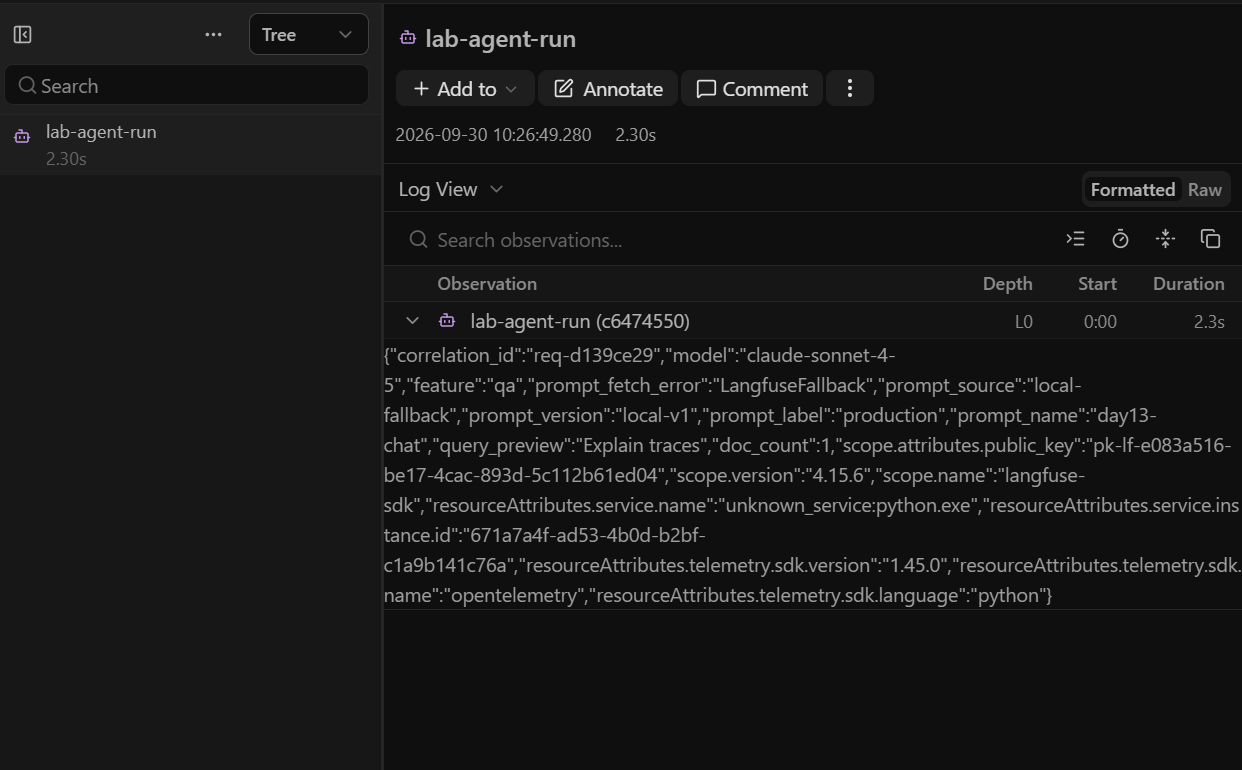
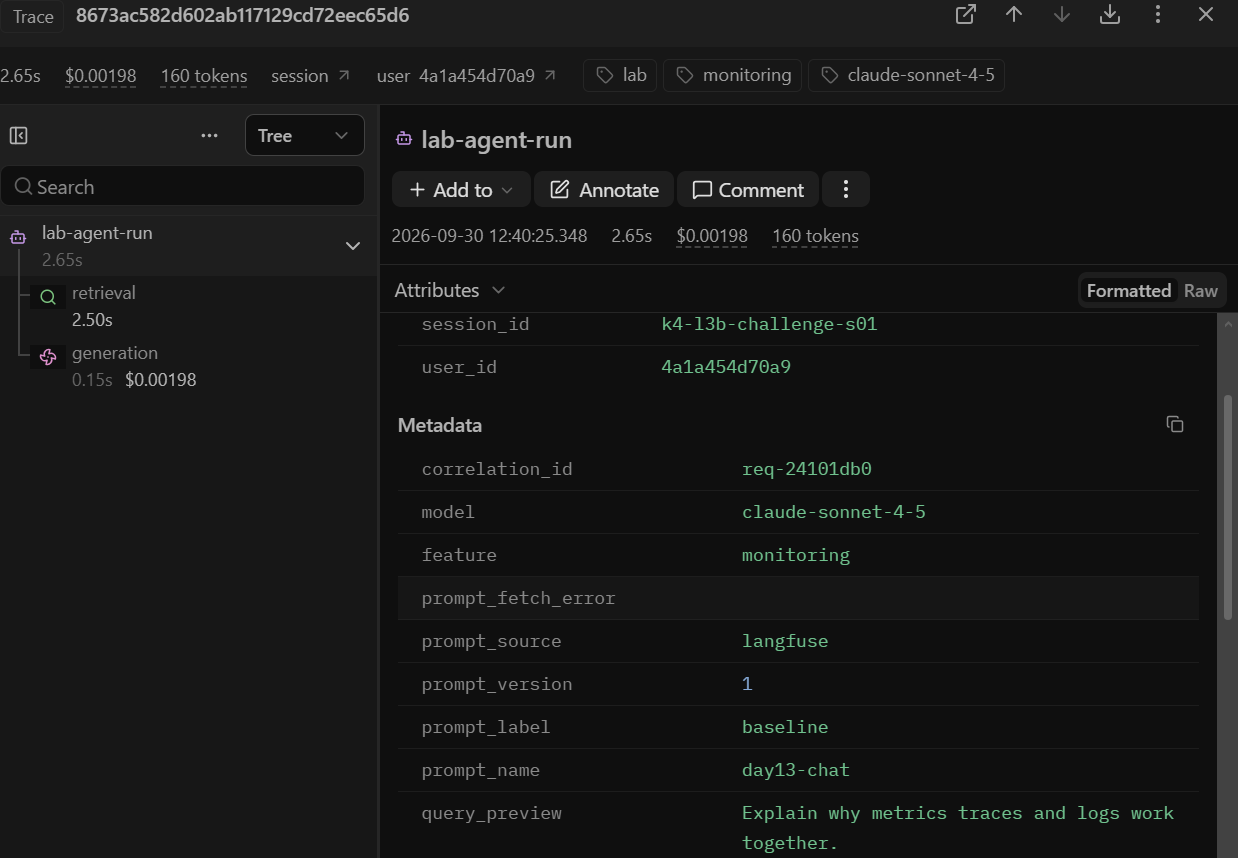
Final b4 SHA

diff --git a/submission/REPORT.md b/submission/REPORT.md
@@ -8,7 +8,7 @@
 - **MSSV:** 2A202602756
 - **Lớp:** K4-L3B
 - **Repository URL:** https://github.com/Anreak/K4-L3-DAY13-NguyenQuangHuu-2A202602756-Monitoring-LLMOps
-- **Commit SHA cuối:**
+- **Commit SHA cuối:** Chưa tạo; điền SHA của commit cuối sau khi cập nhật report và evidence.
 - **Challenge ID:** `day13-k4-l3b-monitoring-llmops-v1`
 - **Tên project Langfuse cá nhân:** `day13-k4-l3b-2A202602756` (xác nhận qua API project của credentials đang cấu hình).
 
@@ -18,42 +18,33 @@
 
 | Evidence | Đường dẫn |
 |---|---|
-| Pytest cuối | `evidence/01-pytest.txt` |
-| Log validator | `evidence/02-log-validator.txt` |
-| Dashboard validator | `evidence/03-dashboard-validator.txt` |
-| Structured log | `evidence/04-structured-log.txt` |
-| PII redaction | `evidence/05-pii-redaction-runtime.txt` |
-| Baseline load | `evidence/06-baseline-load.txt` |
-| Langfuse trace list/metadata (text) | `evidence/06-langfuse-traces.txt` |
-| Candidate load | `evidence/07-candidate-load.txt` |
-| Production v2 load | `evidence/08-production-v2-load.txt` |
-| Candidate/production v2 Langfuse trace IDs | `evidence/09-langfuse-version-traces.txt` |
-| Production v1 rollback workload (DNS fallback; not a managed trace) | `evidence/10-production-v1-rollback-load.txt` |
-| Production v1 trace after rollback | `evidence/10-production-v1-rollback-trace.txt` |
-| Trace list | `evidence/06-trace-list.png` |
+| Pytest cuối | `evidence/01-pytest.png` |
+| Log validator | `evidence/02-log-validator.png` |
+| Dashboard validator | `evidence/03-dashboard-validator.png` |
+| Structured log | `evidence/04-structured-log.png` |
+| PII redaction | `evidence/05-pii-redaction.png` |
+| Langfuse trace list | `evidence/06-trace-list.png` |
 | Trace waterfall | `evidence/07-trace-waterfall.png` |
-| Trace metadata | `evidence/08-trace-metadata.png` |
+| Trace metadata | `evidence/08a.png` |
+| Generation model/token/cost | `evidence/08b.png` |
 | Prompt versions | `evidence/09-prompt-versions.png` |
-| Prompt rollback sau promote | `evidence/10a-prompt-production-v2.png` |
-| Prompt rollback sau khi quay về v1 | `evidence/10b-prompt-production-v1.png` |
+| Production v2 sau promote | `evidence/09-prompt-versions.png` (ảnh cho thấy v2 có label `production`) |
+| Production v1 sau rollback | `evidence/10b.png` |
 | Dashboard runtime | `evidence/11-dashboard-overview.png` |
-| Incident metric | `evidence/12-incident-metric.png` |
-| Incident metric snapshot (JSON) | `evidence/12-incident-metric.json` |
-| Incident workload | `evidence/13-incident-load.txt` |
-| Incident log (text, scrubbed fields only) | `evidence/13-incident-log.txt` |
-| Incident log screenshot | `evidence/13-incident-log.png` |
-| Incident trace | `evidence/14-incident-trace.png` |
+| Incident metric | `evidence/12-incident-metric.png` (ảnh hiện tại không chứa thời điểm challenge; cần thay bằng ảnh đúng) |
+| Incident log | `evidence/13-incident-log.png` |
+| Incident trace | Chưa đạt: `evidence/14-incident-trace.png` là request khác correlation ID; cần thay bằng trace khớp ảnh 13 |
 
 ## 3. Kết quả kỹ thuật
 
 | Nội dung | Baseline | Kết quả cuối | Nhận xét |
 |---|---|---|---|
-| `validate_logs.py` | Chưa ghi baseline | 100/100; 273 records, 119 correlation IDs | 0 trường thiếu, 0 context enrichment thiếu, 0 leak PII |
-| `validate_dashboard.py` | Chưa ghi baseline | 6/6 panel | Contract hợp lệ; dashboard runtime cần ảnh riêng |
-| `pytest` | Chưa ghi baseline | 26 passed | Chạy trên working tree hiện tại |
-| Số traces hợp lệ | Chưa ghi baseline | Tối thiểu 36 root traces / 108 observations | 15 baseline/challenge + 10 candidate v2 + 10 production v2 + 1 production v1 sau rollback |
+| `validate_logs.py` | Chưa ghi baseline | 100/100; 293 records, 129 correlation IDs | 0 trường thiếu, 0 context enrichment thiếu, 0 leak PII |
+| `validate_dashboard.py` | Chưa ghi baseline | 6/6 panel | Contract hợp lệ; runtime ở ảnh 11; ảnh metric incident 12 cần chụp lại đúng time range |
+| `pytest` | Chưa ghi baseline | 26 passed | Ảnh terminal: `evidence/01-pytest.png` |
+| Số traces hợp lệ | Chưa ghi baseline | Tối thiểu 36 root traces / 108 observations đã xác minh trước đó | Ảnh trace list hiện hiển thị 104 root observations trong khoảng thời gian đang chọn |
 | Số PII leak | Chưa ghi baseline | 0 theo log validator | Smoke test local cũng xác nhận mẫu email/điện thoại/thẻ đã scrub |
-| Latency P95 / TTFT P95 | Chưa ghi baseline | Snapshot local 15 request: P95 5,650 ms; TTFT P95 51 ms | P95 tổng bị ảnh hưởng bởi lần fetch prompt đầu tiên khi cache lạnh; challenge riêng: 5/5 request 2,653–2,656 ms |
+| Latency P95 / TTFT P95 | Chưa ghi baseline riêng | Dashboard overview: P95 1,451 ms, TTFT P95 51 ms; challenge: 5/5 request 2,653–2,656 ms | Challenge median 2,654 ms vượt ngưỡng 2,000 ms; ảnh dashboard 12 hiện có chưa nằm trong challenge time range |
 | Retrieval success rate | Chưa ghi baseline | 100% (5/5 challenge request) | Cả năm log `response_sent` đều có `tool_success=true`; retrieval bị chậm nhưng không lỗi |
 
 ## 4. Logging và PII
@@ -61,22 +52,22 @@
 - **Cách tạo/nhận và truyền correlation ID:** Middleware nhận `x-request-id` đúng định dạng hoặc sinh `req-<8-hex>`, rồi trả ID ở header và response body. Smoke test local dùng `req-9b6c9451`; ID nằm trong cả hai log event. Langfuse root metadata ghi cùng correlation ID.
 - **Các metadata được ghi vào structured log:** `user_id_hash`, `session_id` đã scrub, `feature` đã scrub, `model`, `env`, `correlation_id`; event kết thúc request còn có latency, TTFT, token, cost, quality và retrieval status.
 - **Cách bảo đảm PII được scrub trước khi ghi:** `scrub_event` chạy trước file writer/JSON renderer và đệ quy qua chuỗi trong dict/list/tuple. Trace metadata cũng scrub `session_id` và `feature`; raw user ID chỉ lưu dạng hash.
-- **Cách kiểm chứng kết quả:** 10 baseline request trả HTTP 200; các trường nhạy cảm trong sample được scrub trong structured log. Sau đó kiểm tra trên Langfuse bằng correlation ID và metadata, không lấy nội dung input/output. Output: `evidence/04-structured-log.txt`, `evidence/05-pii-redaction-runtime.txt`, `evidence/06-baseline-load.txt`.
+- **Cách kiểm chứng kết quả:** Structured log có `correlation_id`, model, latency và trạng thái retrieval; ảnh PII cho thấy email/điện thoại/thẻ mẫu đã được thay bằng token `[REDACTED_...]`. Xem `evidence/04-structured-log.png` và `evidence/05-pii-redaction.png`.
 
 ## 5. Tracing và prompt versioning
 
 - **Cách xác nhận traces do chính tôi tạo trong project cá nhân:** Langfuse API trả 45 observations tương ứng 15 root traces trong lượt baseline/challenge; 60 observations nữa tương ứng 20 root traces candidate/production v2; thêm một trace production v1 sau rollback. Metadata chứa các correlation ID khớp log workload.
-- **Cấu trúc root/retrieval/generation observations:** Đã xác minh root `lab-agent-run` có child `retrieval` kiểu `RETRIEVER` và `generation` kiểu `GENERATION`. Capture input/output bị tắt; generation có model, token usage và cost.
-- **Cách nối trace với log:** Metadata root có `correlation_id`, trùng với `correlation_id` trong `request_received`/`response_sent`. Trace challenge mẫu: `8673ac582d602ab117129cd72eec65d6`; correlation ID `req-24101db0`.
+- **Cấu trúc root/retrieval/generation observations:** Trace `89b119758e2f145c28af4b4e324ff876` có root `lab-agent-run` và hai child `retrieval`, `generation`. Ảnh `evidence/07-trace-waterfall.png` cho thấy cây; ảnh `evidence/08b.png` cho thấy generation dùng model `claude-sonnet-4-5`, tổng 196 tokens và cost `$0.002604`.
+- **Cách nối trace với log:** Ảnh metadata `evidence/08a.png` cho thấy trace `89b119758e2f145c28af4b4e324ff876` có `correlation_id=req-035d7711`, prompt `day13-chat`, label `production`, version 1 và `prompt_source=langfuse`.
 - **Prompt name:** `day13-chat`; API xác nhận trace dùng prompt managed (`prompt_source=langfuse`).
 - **Version/label baseline:** Version 1 / `baseline`; đã xác minh trên trace Langfuse.
 - **Version/label candidate:** Version 2 / `candidate`; đã tạo 10 request và Langfuse trả 10 root traces với `prompt_source=langfuse`.
-- **Trace ID của mỗi version:** Baseline v1: `8673ac582d602ab117129cd72eec65d6`, correlation `req-24101db0`; candidate v2: `3429cd635c5d3eca348722f8a8c9ade7`, correlation `req-a80d7722`; production v2: `f56ab203e00fceff172000d47a3d06cf`, correlation `req-ff29a25e`; production v1 sau rollback: `381a0be50c4f2d22b3bd10f71bea2e34`, correlation `req-4fcce137`. Danh sách v2 ở `evidence/09-langfuse-version-traces.txt`.
-- **Cách promote và rollback `production`:** Đã chuyển `production` sang version 2, chạy 10 request, rồi rollback về version 1. Langfuse API xác nhận sau rollback: baseline=1, production=1, candidate=2. Trace sau rollback mới xác nhận `production`, version 1, `prompt_source=langfuse`; xem `evidence/10-production-v1-rollback-trace.txt`. Ảnh 10a/10b còn cần chụp trong UI.
+- **Trace ID của mỗi version:** Baseline v1: `8673ac582d602ab117129cd72eec65d6`, correlation `req-24101db0`; candidate v2: `3429cd635c5d3eca348722f8a8c9ade7`, correlation `req-a80d7722`; production v2: `f56ab203e00fceff172000d47a3d06cf`, correlation `req-ff29a25e`; production v1 sau rollback: `381a0be50c4f2d22b3bd10f71bea2e34`, correlation `req-4fcce137`. Các ID đã được xác minh trước đó qua Langfuse API.
+- **Cách promote và rollback `production`:** Đã chuyển `production` sang version 2, sau đó rollback về version 1. `evidence/09-prompt-versions.png` cho thấy trạng thái v2 có `production` (sau promote); `evidence/10b.png` cho thấy sau rollback, v1 có `production` và v2 còn `candidate`. Không dùng `evidence/10a.png` vì file ảnh hiện tại đen/trống.
 
 ## 6. Dashboard, SLO và alerts
 
-- **Dashboard và sáu panel:** Code dashboard local đọc `data/logs.jsonl`, time range 60 phút, refresh 30 giây; contract validator đạt 6/6. Snapshot trong run 15 request: traffic 15, latency P50 154 ms/P95 5,650 ms, TTFT P95 51 ms, error 0; cần chụp ảnh dashboard runtime.
+- **Dashboard và sáu panel:** Dashboard local đọc `data/logs.jsonl`, hiển thị 60 phút gần nhất và tự refresh mỗi 30 giây. Validator đạt 6/6. Ảnh `evidence/11-dashboard-overview.png` hiển thị sáu panel, 11 requests, P50 153 ms, P95 1,451 ms, TTFT P95 51 ms, error 0%, retrieval success 100%, cost `$0.0224`, quality 0.88.
 - **SLO và lý do chọn:** 99.5% request hoàn tất trong 3 giây trong cửa sổ 28 ngày; ngưỡng theo lab và cần hiệu chỉnh bằng baseline production.
 - **Cách tính error budget:** 0.5% budget; tối đa 50 request không đạt trong 10,000 request.
 - **Ba alert và runbook tương ứng:** `HighLatencyP95`, `ElevatedRequestFailures`, `QualityOrCostGuardrail`; runbook Metrics → Logs → Traces tại `docs/alerts.md`.
@@ -86,10 +77,10 @@
 ## 7. Điều tra challenge
 
 - **Challenge ID:** `day13-k4-l3b-monitoring-llmops-v1`.
-- **Khoảng thời gian điều tra:** 2026-09-30 05:40:20–05:40:33 UTC (12:40:20–12:40:33 giờ Việt Nam).
-- **Triệu chứng từ metrics:** 5/5 request thành công nhưng latency 2,653–2,656 ms, median 2,654 ms; vượt ngưỡng challenge 2,000 ms. TTFT khoảng 50 ms.
-- **Log line và correlation ID liên quan:** `response_sent`, feature `monitoring`, tool `retrieval`, `tool_success=true`; IDs: `req-dfbf3b18`, `req-e626e9fa`, `req-24101db0`, `req-ceaaa4f1`, `req-fbc5f6ed`. Đối chiếu trong `evidence/13-incident-log.txt`.
-- **Trace ID và span gây ảnh hưởng:** Trace mẫu `8673ac582d602ab117129cd72eec65d6`, root `38ac69e6708f3e83`, retrieval `8565a0999def3e6e`, generation `0a6d1a2f0a46a497`; correlation `req-24101db0`.
+- **Khoảng thời gian điều tra:** 2026-09-30 05:40:20–05:40:33 UTC (12:40:20–12:40:33 giờ Việt Nam), theo log challenge trong `evidence/13-incident-log.png`.
+- **Triệu chứng từ metrics:** 5/5 request challenge thành công; latency 2,653–2,656 ms, median 2,654 ms; vượt ngưỡng challenge 2,000 ms. TTFT khoảng 50 ms.
+- **Log line và correlation ID liên quan:** Ảnh `evidence/13-incident-log.png` hiển thị năm correlation ID challenge: `req-dfbf3b18`, `req-e626e9fa`, `req-24101db0`, `req-ceaaa4f1`, `req-fbc5f6ed`.
+- **Trace ID và span gây ảnh hưởng:** Trace challenge đã xác minh trước đó là `8673ac582d602ab117129cd72eec65d6`, correlation `req-24101db0`; root `38ac69e6708f3e83`, retrieval `8565a0999def3e6e`, generation `0a6d1a2f0a46a497`. Tuy nhiên ảnh `evidence/14-incident-trace.png` hiện là request `req-d139ce29` (`demo-01`), có `prompt_source=local-fallback` và không thấy child span retrieval/generation; ảnh này **không chứng minh trace challenge**.
 - **Root cause:** `rag_slow` cố ý chèn `time.sleep(2.5)` trong `app/mock_rag.py` retrieval; phần generation chỉ khoảng 150 ms.
 - **Fix action:** Gọi endpoint disable incident; health sau chạy xác nhận `rag_slow=false`.
 - **Preventive measure:** Giữ cảnh báo latency P95, điều tra theo Metrics → Logs → Traces, và luôn xác nhận incident đã disable sau workload.
@@ -104,13 +95,13 @@
 - **Cách hiểu luồng Metrics → Logs → Traces:** Metric cho biết request chậm; log tìm đúng correlation ID; trace xác định retrieval là span bị chậm.
 - **Vai trò của prompt version, token/cost, SLO hoặc rollback trong vận hành LLM:** Label/version giúp truy vết prompt đã chạy; token/cost đo ảnh hưởng; SLO phát hiện lệch chuẩn; production label cho phép rollback mà không đổi code.
 - **Điều quan trọng nhất đã học:** Correlation ID làm cầu nối giữa ba lớp Metrics, Logs, Traces.
-- **Hạn chế hoặc phần chưa hoàn thành, nếu có:** Chưa chụp ảnh Langfuse/dashboard và chưa điền commit SHA cuối. Cần hoàn thành các ảnh evidence trước khi nộp.
+- **Hạn chế hoặc phần chưa hoàn thành, nếu có:** Ảnh metric 12 chưa khớp thời gian challenge; ảnh trace 14 chưa khớp correlation ID và không có child retrieval span. Cần chụp lại hai ảnh này. Commit SHA cuối cần điền sau khi commit bản nộp.
 
 ## 9. Checklist trước khi nộp
 
 - [ ] Kết quả và evidence thuộc commit SHA cuối.
 - [ ] Tất cả ảnh/output mở được bằng đường dẫn tương đối.
-- [ ] Incident evidence nối đúng metric → log → trace.
+- [ ] Incident evidence nối đúng metric → log → trace (còn thiếu ảnh metric 12 và trace 14 hợp lệ).
 - [ ] Trace/prompt evidence thuộc project Langfuse cá nhân và ảnh không lộ key/secret.
 - [ ] Repository chạy lại được theo README.
 - [ ] Không có secret, API key, PII thô hoặc evidence của người khác/lớp khác.
